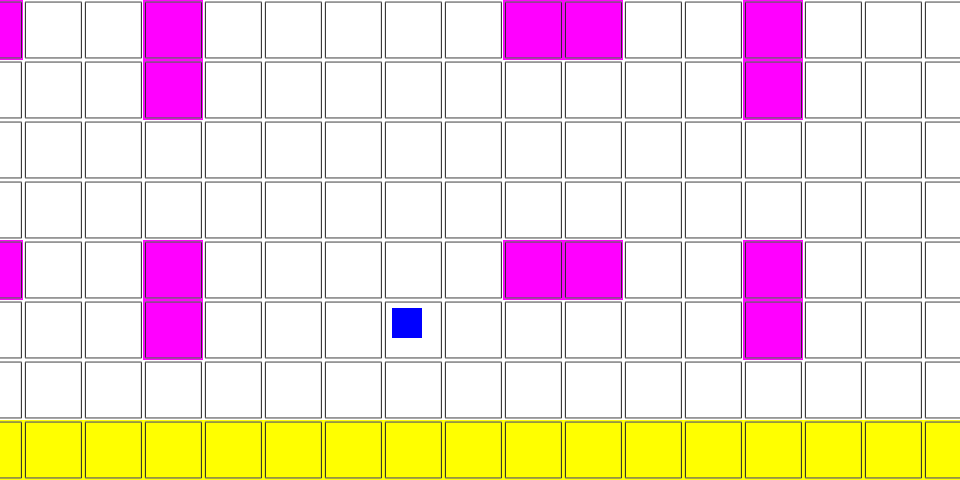
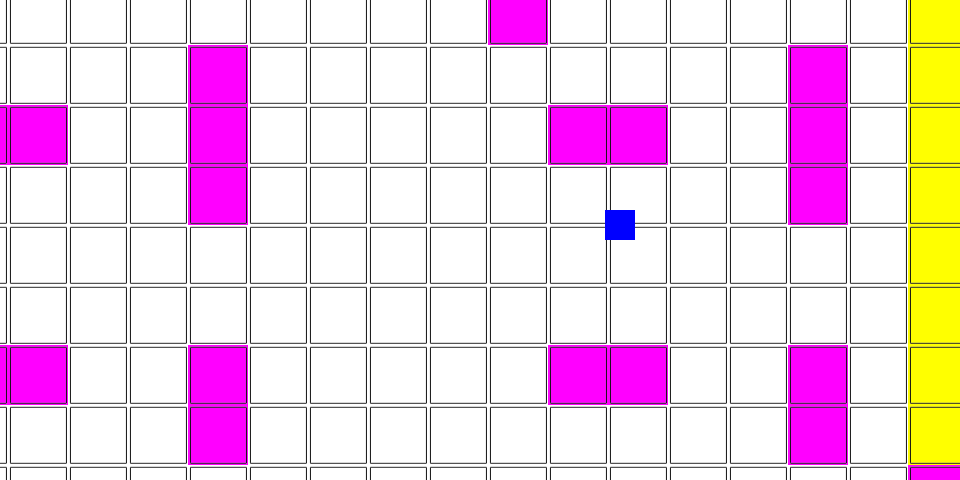
점프 구현

diff --git a/TowerDefense/game/Jump.cpp b/TowerDefense/game/Jump.cpp
@@ -11,15 +11,14 @@ uint8 tileAttr[MapTileNumX * MapTileNumY] = {
 	2, 0, 0, 0, 0, 0, 0, 0, 0, 0, 0, 0, 0, 0, 0, 0, 0, 0, 0, 0, 0, 0, 0, 0, 0, 0, 0, 0, 0, 2,
 	2, 0, 0, 1, 1, 0, 0, 1, 0, 0, 0, 0, 0, 1, 1, 0, 0, 1, 0, 0, 0, 0, 0, 1, 1, 0, 0, 1, 0, 2,
 	2, 0, 0, 0, 0, 0, 0, 1, 0, 0, 0, 0, 0, 0, 0, 0, 0, 1, 0, 0, 0, 0, 0, 0, 0, 0, 0, 1, 0, 2,
-	2, 0, 0, 0, 0, 0, 0, 0, 0, 0, 0, 0, 0, 0, 0, 0, 0, 0, 0, 0, 0, 0, 0, 0, 0, 0, 0, 0, 0, 2,
-	2, 2, 2, 2, 2, 2, 2, 2, 2, 2, 2, 2, 2, 2, 2, 2, 2, 2, 2, 2, 2, 2, 2, 2, 2, 2, 2, 2, 2, 2,
+	1, 0, 0, 0, 0, 0, 0, 0, 0, 0, 0, 0, 0, 0, 0, 0, 0, 0, 0, 0, 0, 0, 0, 0, 0, 0, 0, 0, 0, 1,
+	1, 1, 1, 1, 1, 1, 1, 1, 1, 1, 1, 1, 1, 1, 1, 1, 1, 1, 1, 1, 1, 1, 1, 1, 1, 1, 1, 1, 1, 1,
 };
 
 MapTile* mt;
 iPoint offMt;
 
 MapHero* mh;
-
 
 void loadJump()
 {
@@ -35,9 +34,13 @@ void loadJump()
 	offMt = iPointZero;
 
 	mh = (MapHero*)malloc(sizeof(MapHero));
-	mh->position = iPointMake(MapTileWidth / 2, MapTileHeight / 2);
+	mh->position = iPointMake(MapTileWidth * 3 + MapTileWidth / 2,
+		MapTileHeight * 1 + MapTileHeight / 2);
 	mh->size = iSizeMake(MapCharWidth, MapCharHeight);
 	mh->speed = MapCharSpeed;
+	mh->jumpment = iPointZero;
+	mh->jumpNum = 0;
+	mh->_jumpNum = 2;
 }
 
 void freeJump()
@@ -69,6 +72,19 @@ void drawJump(float dt)
 		mh->position.y + offMt.y - mh->size.height / 2,
 		mh->size.width, mh->size.height);
 
+	iPoint movement = iPointMake(0, 1) * powGravity * dt;
+	mh->applyJump(movement, dt);
+
+	if (getKeyDown() & keyboard_space)
+	{
+		if (getKeyStat() & keyboard_down)
+			mh->position.y += 1;
+
+		else
+			mh->jump();
+
+	}
+
 	uint32 keyStat = getKeyStat();
 	iPoint v = iPointZero;
 	if (keyStat & keyboard_left) v.x = -1;
@@ -78,27 +94,10 @@ void drawJump(float dt)
 	if (v != iPointZero)
 	{
 		v /= iPointLength(v);
-		mh->move(v * (mh->speed * dt));
+		iPoint mp = v * (mh->speed * dt);
+		mh->move(mp + movement);
 
 		iPoint vp = offMt + mh->position;
-#if 0// 실시간 + 항상 센터
-		if (vp.x != devSize.width / 2)
-		{
-			offMt.x = devSize.width / 2 - mh->position.x;
-			if (offMt.x > 0)
-				offMt.x = 0;
-			else if (offMt.x < devSize.width - MapTileWidth * MapTileNumX)
-				offMt.x = devSize.width - MapTileWidth * MapTileNumX;
-		}
-		if (vp.y != devSize.height / 2)
-		{
-			offMt.y = devSize.height / 2 - mh->position.y;
-			if (offMt.y > 0)
-				offMt.y = 0;
-			else if (offMt.y < devSize.height - MapTileHeight * MapTileNumY)
-				offMt.y = devSize.height - MapTileHeight * MapTileNumY;
-		}
-#else// 실시간 + 1/3 벗어난 경우
 		if (vp.x < devSize.width * 0.333333f)
 		{
 			// 왼쪽으로 넘어갔을 경우
@@ -127,62 +126,55 @@ void drawJump(float dt)
 			if (offMt.y < devSize.height - MapTileHeight * MapTileNumY)
 				offMt.y = devSize.height - MapTileHeight * MapTileNumY;
 		}
-#endif
 	}
-	else// if(v == iPointZero) // 입력이 없을떄! 다시 카메라 제자리로!
+	else// if(v == iPointZero)
 	{
+		mh->move(movement);
+
 		iPoint vp = offMt + mh->position;
-		
+
 		if (vp.x != devSize.width / 2)
 		{
 			if (vp.x < devSize.width / 2)
 			{
-				offMt.x += natureSpeed * dt;
+				offMt.x += natureSpeed * dt;//
 				vp.x = offMt.x + mh->position.x;
 				if (vp.x > devSize.width / 2)
 					offMt.x = devSize.width / 2 - mh->position.x;
 			}
-			
-
-			else //if (vp.x > devSize.width / 2)
+			else
 			{
-				offMt.x -= natureSpeed * dt;
+				offMt.x -= natureSpeed * dt;//
 				vp.x = offMt.x + mh->position.x;
 				if (vp.x < devSize.width / 2)
 					offMt.x = devSize.width / 2 - mh->position.x;
-
 			}
 			if (offMt.x > 0)
 				offMt.x = 0;
-			else if (offMt.x < devSize.width - MapTileHeight * MapTileNumX)
-				offMt.x = devSize.width - MapTileHeight * MapTileNumX;
+			else if (offMt.x < devSize.width - MapTileWidth * MapTileNumX)
+				offMt.x = devSize.width - MapTileWidth * MapTileNumX;
 		}
 		if (vp.y != devSize.height / 2)
 		{
 			if (vp.y < devSize.height / 2)
 			{
-				offMt.y += natureSpeed * dt;
+				offMt.y += natureSpeed * dt;//
 				vp.y = offMt.y + mh->position.y;
 				if (vp.y > devSize.height / 2)
 					offMt.y = devSize.height / 2 - mh->position.y;
-
 			}
-			else //if (vp.y > devSize.height / 2)
+			else
 			{
-				offMt.y -= natureSpeed * dt;
+				offMt.y -= natureSpeed * dt;//
 				vp.y = offMt.y + mh->position.y;
 				if (vp.y < devSize.height / 2)
 					offMt.y = devSize.height / 2 - mh->position.y;
 			}
-		
-
 			if (offMt.y > 0)
 				offMt.y = 0;
 			else if (offMt.y < devSize.height - MapTileHeight * MapTileNumY)
 				offMt.y = devSize.height - MapTileHeight * MapTileNumY;
-			
 		}
-		
 	}
 
 	// scroll type
@@ -194,6 +186,24 @@ void drawJump(float dt)
 	// 따라가는
 }
 
+void MapHero::applyJump(iPoint& movement, float dt)
+{
+	if (jumpment == iPointZero)
+		return;
+
+	iPoint mp = jumpment * dt;
+	movement += mp;
+	jumpment -= mp;
+}
+
+void MapHero::jump()
+{
+	if (jumpNum == _jumpNum)
+		return;
+
+	jumpNum++;
+	jumpment = iPointMake(0, -1) * powJump;
+}
 void MapHero::move(iPoint mp)
 {
 	if (mp.x < 0)
@@ -305,6 +315,9 @@ void MapHero::move(iPoint mp)
 		position.y += mp.y;
 		if (position.y > min - size.height / 2)
 			position.y = min - size.height / 2;
+
+		if (position.y == min - size.height / 2)
+			jumpNum = 0;
 	}
 }
 

diff --git a/TowerDefense/game/Jump.h b/TowerDefense/game/Jump.h
@@ -9,37 +9,40 @@ void keyJump(iKeyState stat, iPoint point);
 
 struct MapTile
 {
-	uint8 attr; // 0 이동 가능, 1 이동 불가
+	uint8 attr;// 0 이동 가능, 1 이동 불가
 	uint8 imgIndex;
 };
+
 #define MapTileNumX 30
 #define MapTileNumY 12
-
 #define MapTileWidth 60
 #define MapTileHeight 60
 
-#define tile_color_canMove 1, 1, 1, 1
-#define tile_color_canNotMove 1, 0, 1, 1
-#define tile_color_end 1, 1, 0, 1
+#define tile_color_canMove		1, 1, 1, 1
+#define tile_color_canNotMove	1, 0, 1, 1
+#define tile_color_end			1, 1, 0, 1
 
 #define natureSpeed 100
+#define powGravity 200
+#define powJump 500
 
-struct MapHero // 나중에 클래스로 바꿀예정.....첨부터 확장하면 길어지니...
+struct MapHero
 {
 	iPoint position;
 	iSize size;
-
 	float speed;
 
+	iPoint jumpment;
+	int jumpNum, _jumpNum;
+
 	void move(iPoint movement);
+
+	void jump();
+	void applyJump(iPoint& movement, float dt);
 };
-
-
 
 #define MapCharWidth 30
 #define MapCharHeight 30
-
-
 #define MapCharSpeed 200
 
 #define hero_color 0, 0, 1, 1
